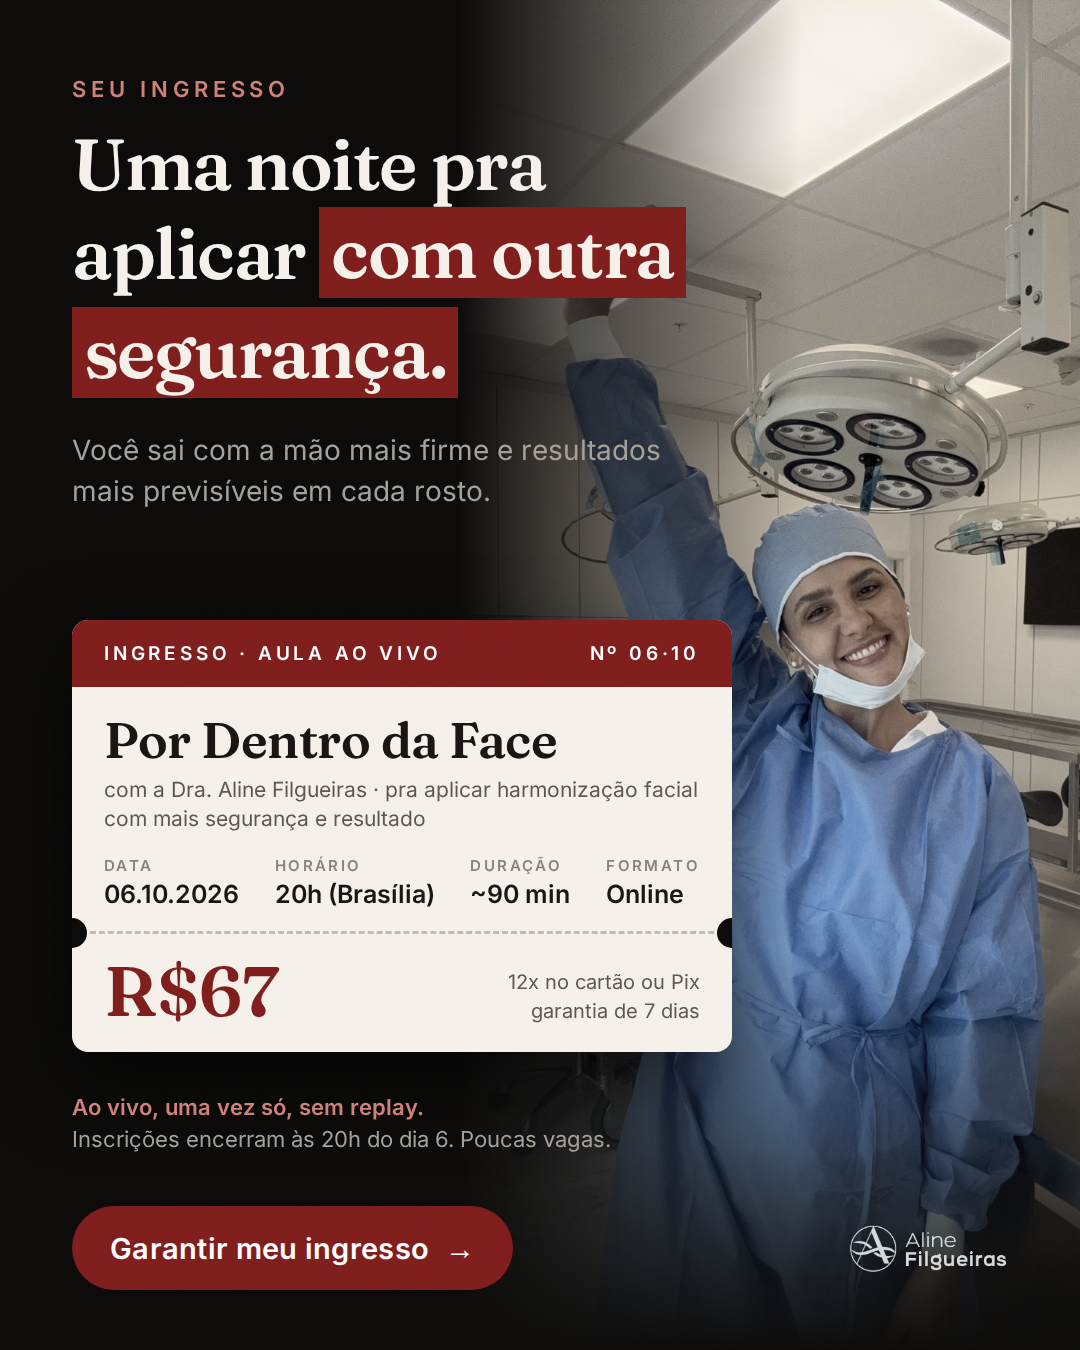
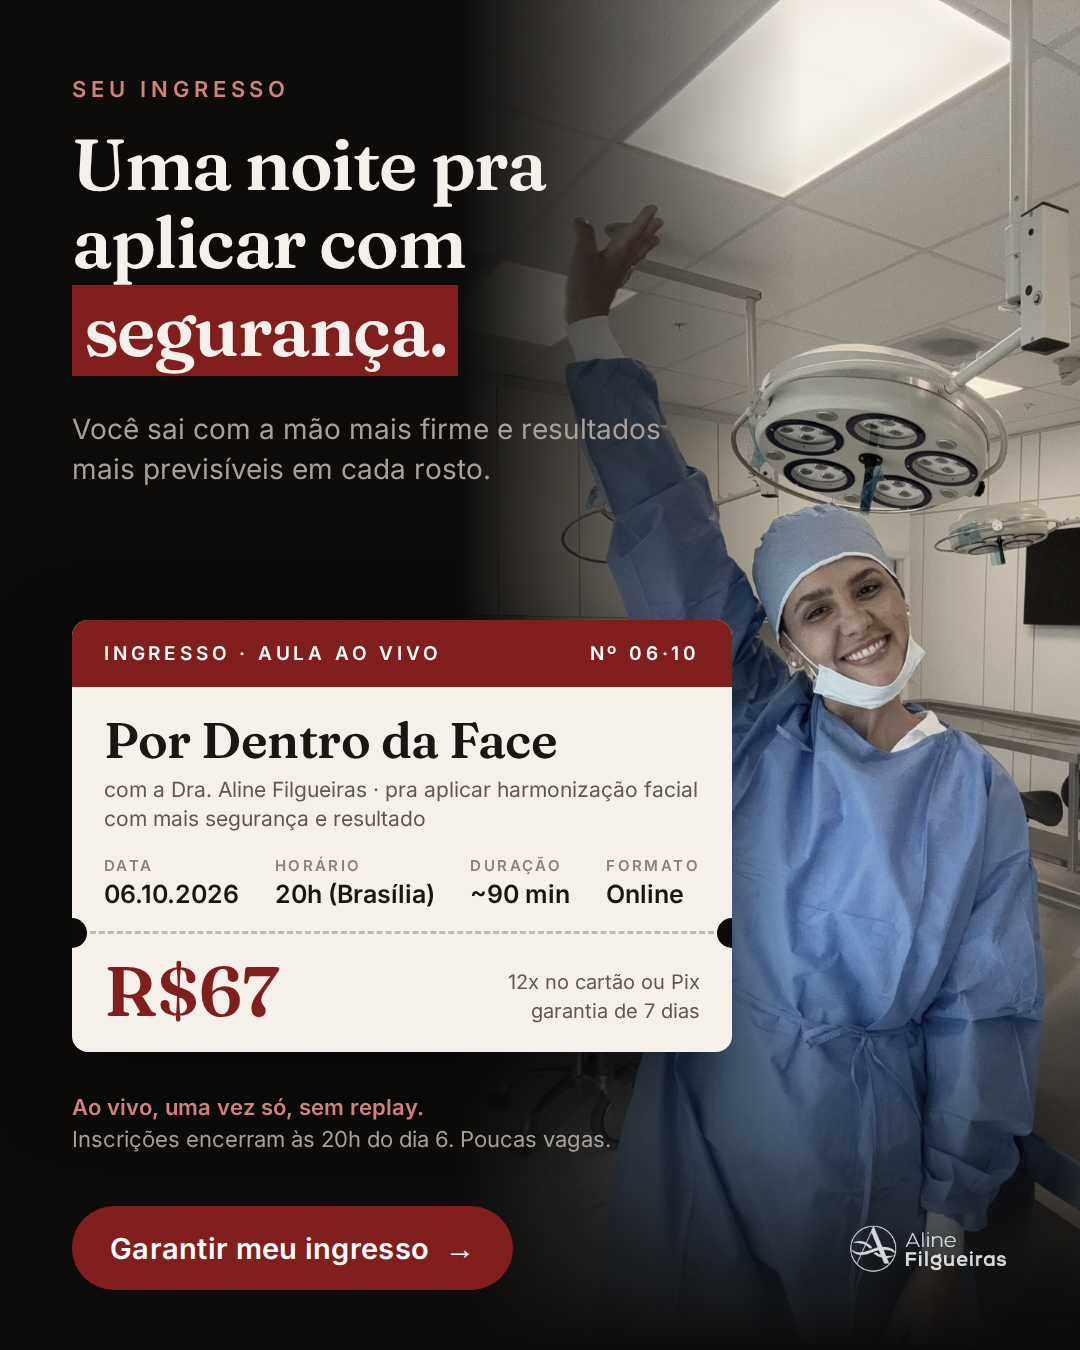
Criativo 05: troca "com outra segurança" por "com segurança"
Claude-Session: https://claude.ai/code/session_01XjB769NZL5hLbDKi61QFm8

Changed region(s): [[0.0611, 0.1556, 0.6417, 0.3733]]

diff --git a/docs/criativos/criativos.html b/docs/criativos/criativos.html
@@ -217,7 +217,7 @@
   <div class="foto"></div><div class="veu"></div>
   <div class="interno">
     <span class="eyebrow">Seu ingresso</span>
-    <h1 class="serif">Uma noite pra aplicar <span class="grifo">com outra segurança.</span></h1>
+    <h1 class="serif">Uma noite pra aplicar com <span class="grifo">segurança.</span></h1>
     <p class="sub">Você sai com a mão mais firme e resultados mais previsíveis em cada rosto.</p>
   </div>
   <div class="ticket">

diff --git a/docs/criativos/README.md b/docs/criativos/README.md
@@ -16,7 +16,7 @@ prova de por que a Aline consegue entregar isso (legenda da foto, linha de autor
 | 02 | `png/criativo-02.png` | Resultado bonito e previsível em cada rosto | Frio |
 | 03 | `png/criativo-03.png` | Calma perto das áreas de risco | Frio |
 | 04 | `png/criativo-04.png` | Mais segurança na mão, mais resultado na paciente (prova) | Morno/quente |
-| 05 | `png/criativo-05.png` | Uma noite pra aplicar com outra segurança (oferta) | Quente |
+| 05 | `png/criativo-05.png` | Uma noite pra aplicar com segurança (oferta) | Quente |
 
 ---
 
@@ -195,7 +195,7 @@ Regras que valem para todos:
   - B. "A paciente ficou perfeita." (citação do print como headline)
 
 ### Criativo 05 · O ingresso
-- **Headline:** Uma noite pra aplicar *com outra segurança.*
+- **Headline:** Uma noite pra aplicar com *segurança.*
 - **Apoio:** Você sai com a mão mais firme e resultados mais previsíveis em cada rosto.
 - **Ingresso:** Por Dentro da Face · pra aplicar harmonização facial com mais segurança e
   resultado · 06.10.2026 · 20h (Brasília) · ~90 min · Online · **R$67** · 12x no cartão ou
@@ -206,7 +206,7 @@ Regras que valem para todos:
 - **Por quê:** fundo de funil. O desejo vem primeiro e a urgência depois, pra ela decidir
   pelo que ganha, não só pelo medo de perder.
 - **Alternativas:**
-  - A. "R$67 pra aplicar com outra segurança." Preço como gancho, pra público quente.
+  - A. "R$67 pra aplicar com segurança." Preço como gancho, pra público quente.
   - B. "06/10, 20h. A noite em que a sua mão fica mais firme."
 
 ## 5. Legendas sugeridas (texto principal do anúncio)
@@ -228,7 +228,7 @@ Regras que valem para todos:
 > aplicar sabendo o resultado que vai entregar.
 
 **Para 04 e 05 (público quente):**
-> Uma noite pra aplicar com outra segurança. Ao vivo, sem replay: as inscrições encerram
+> Uma noite pra aplicar com segurança. Ao vivo, sem replay: as inscrições encerram
 > às 20h do dia 6. R$67 no Pix ou em até 12x, com 7 dias de garantia.
 
 **Título do anúncio:** Aplique com mais segurança · 06/10 às 20h
